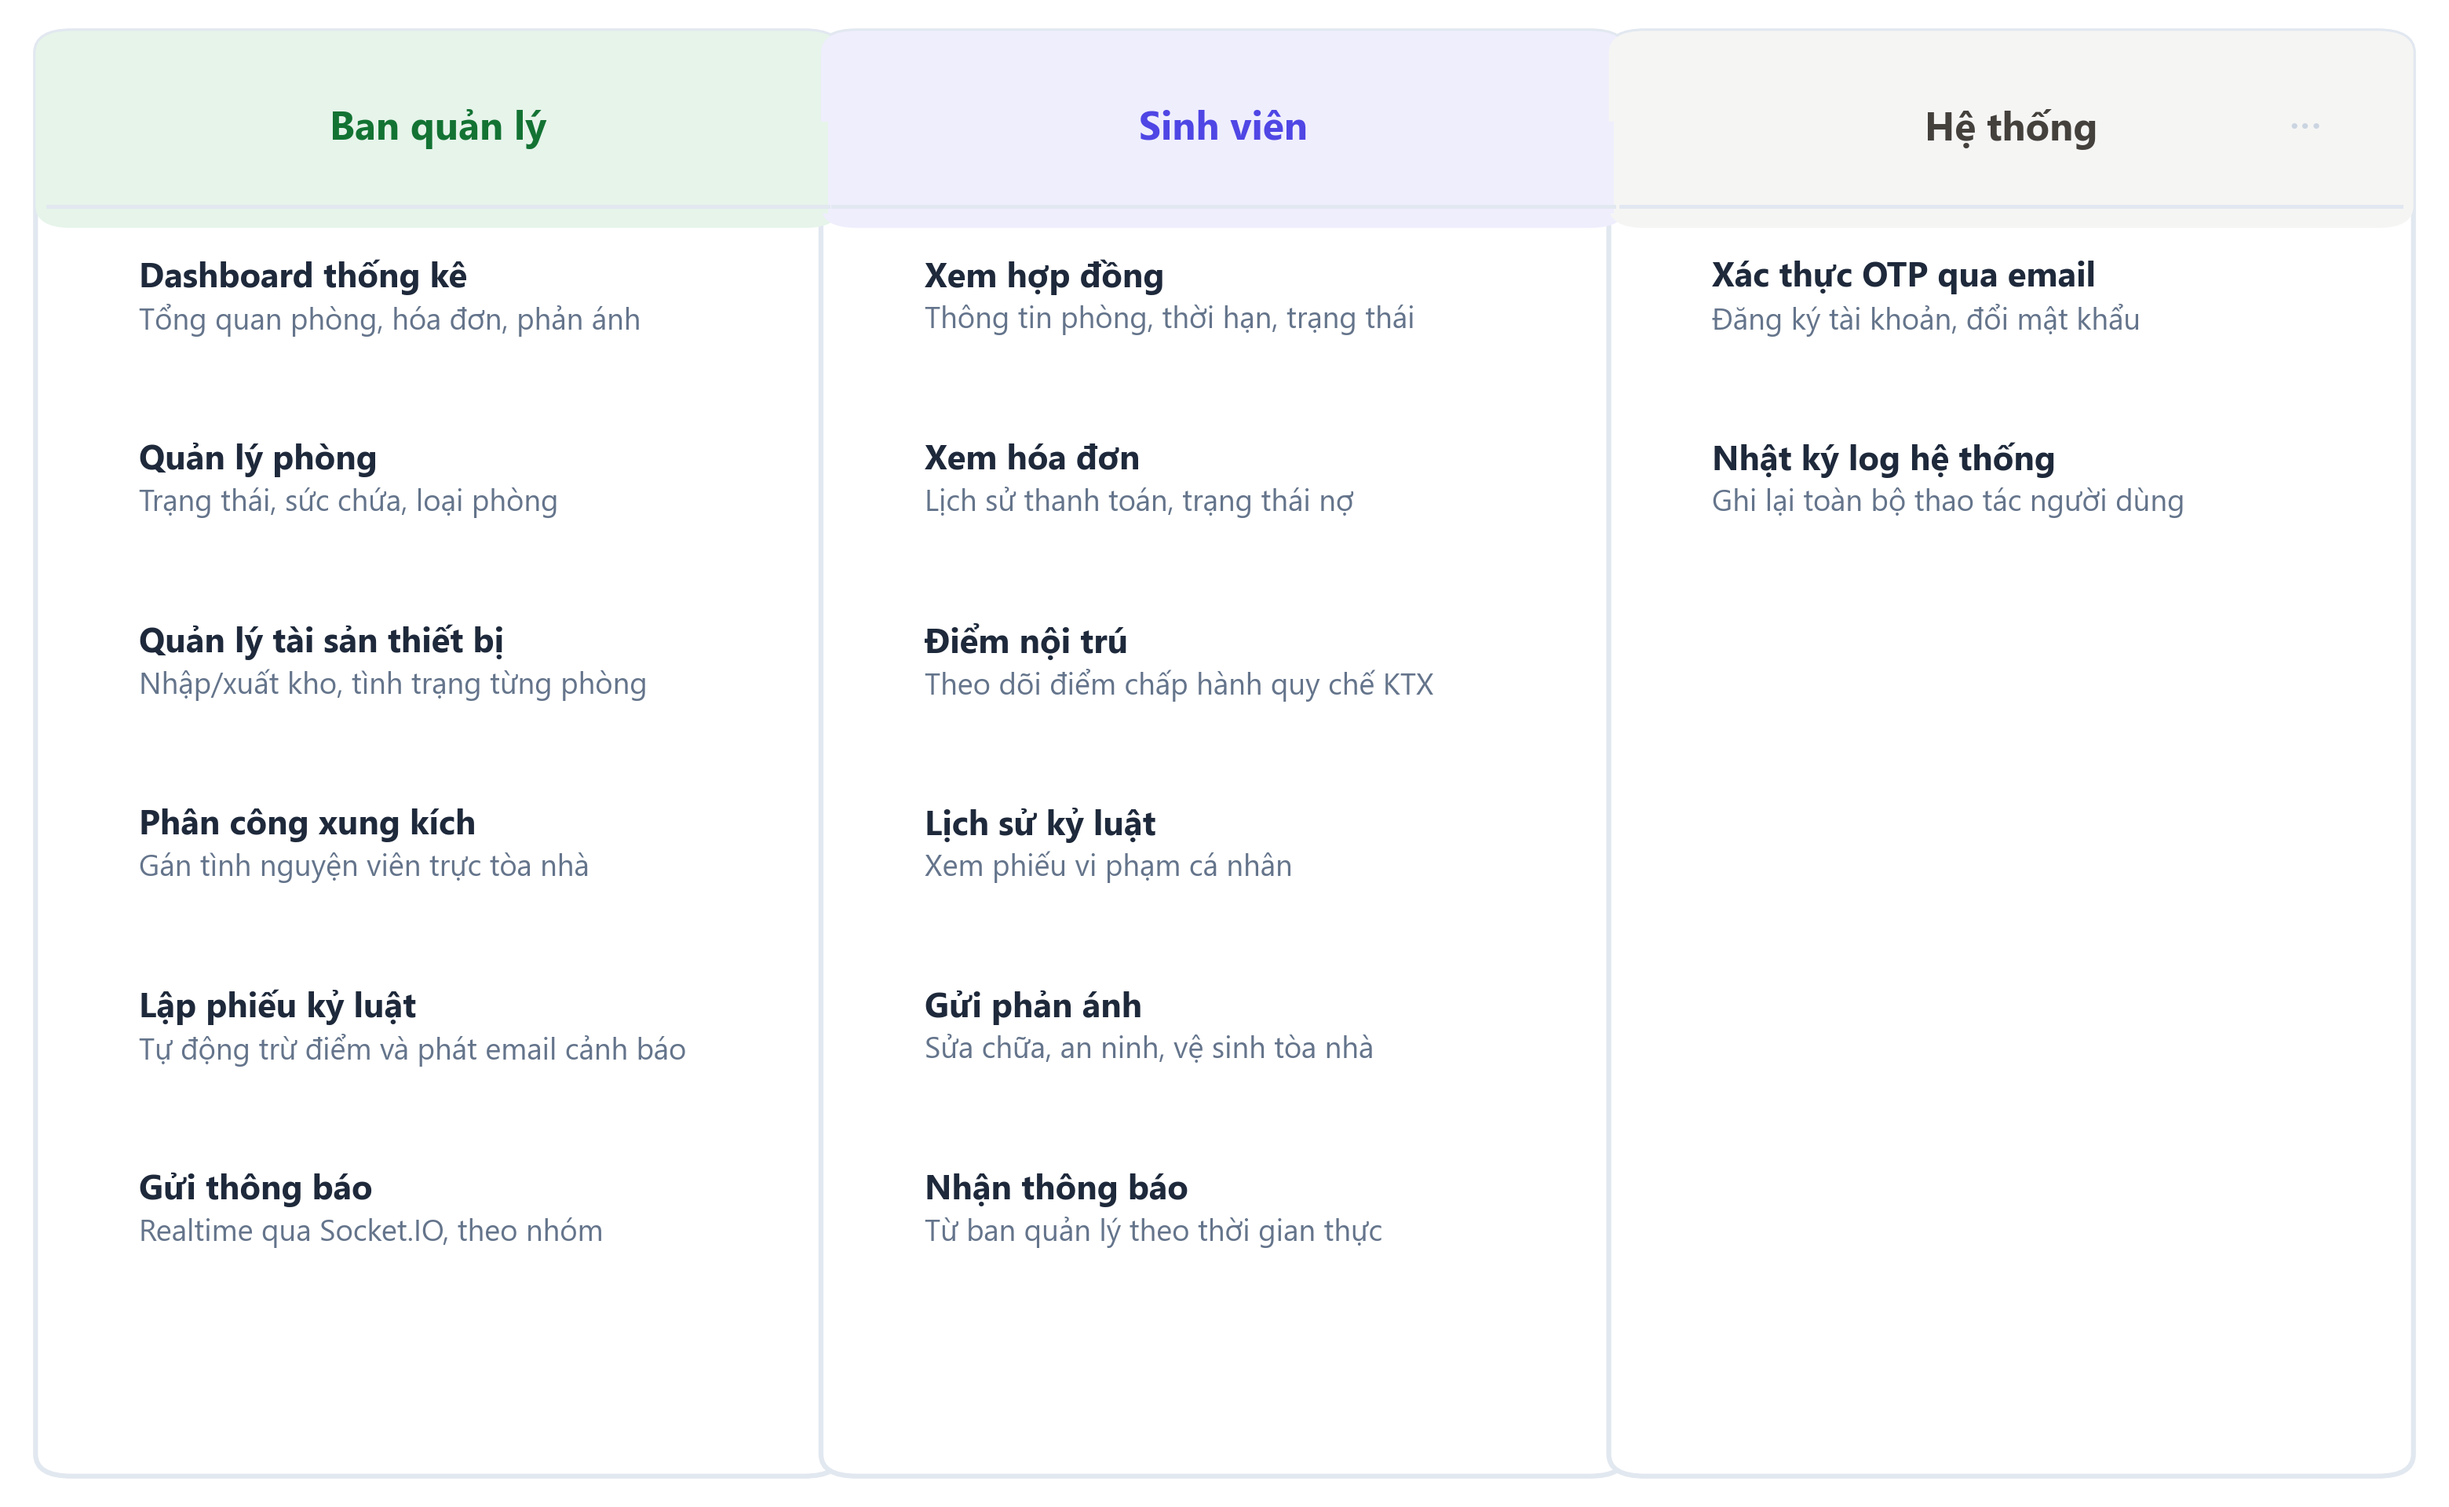
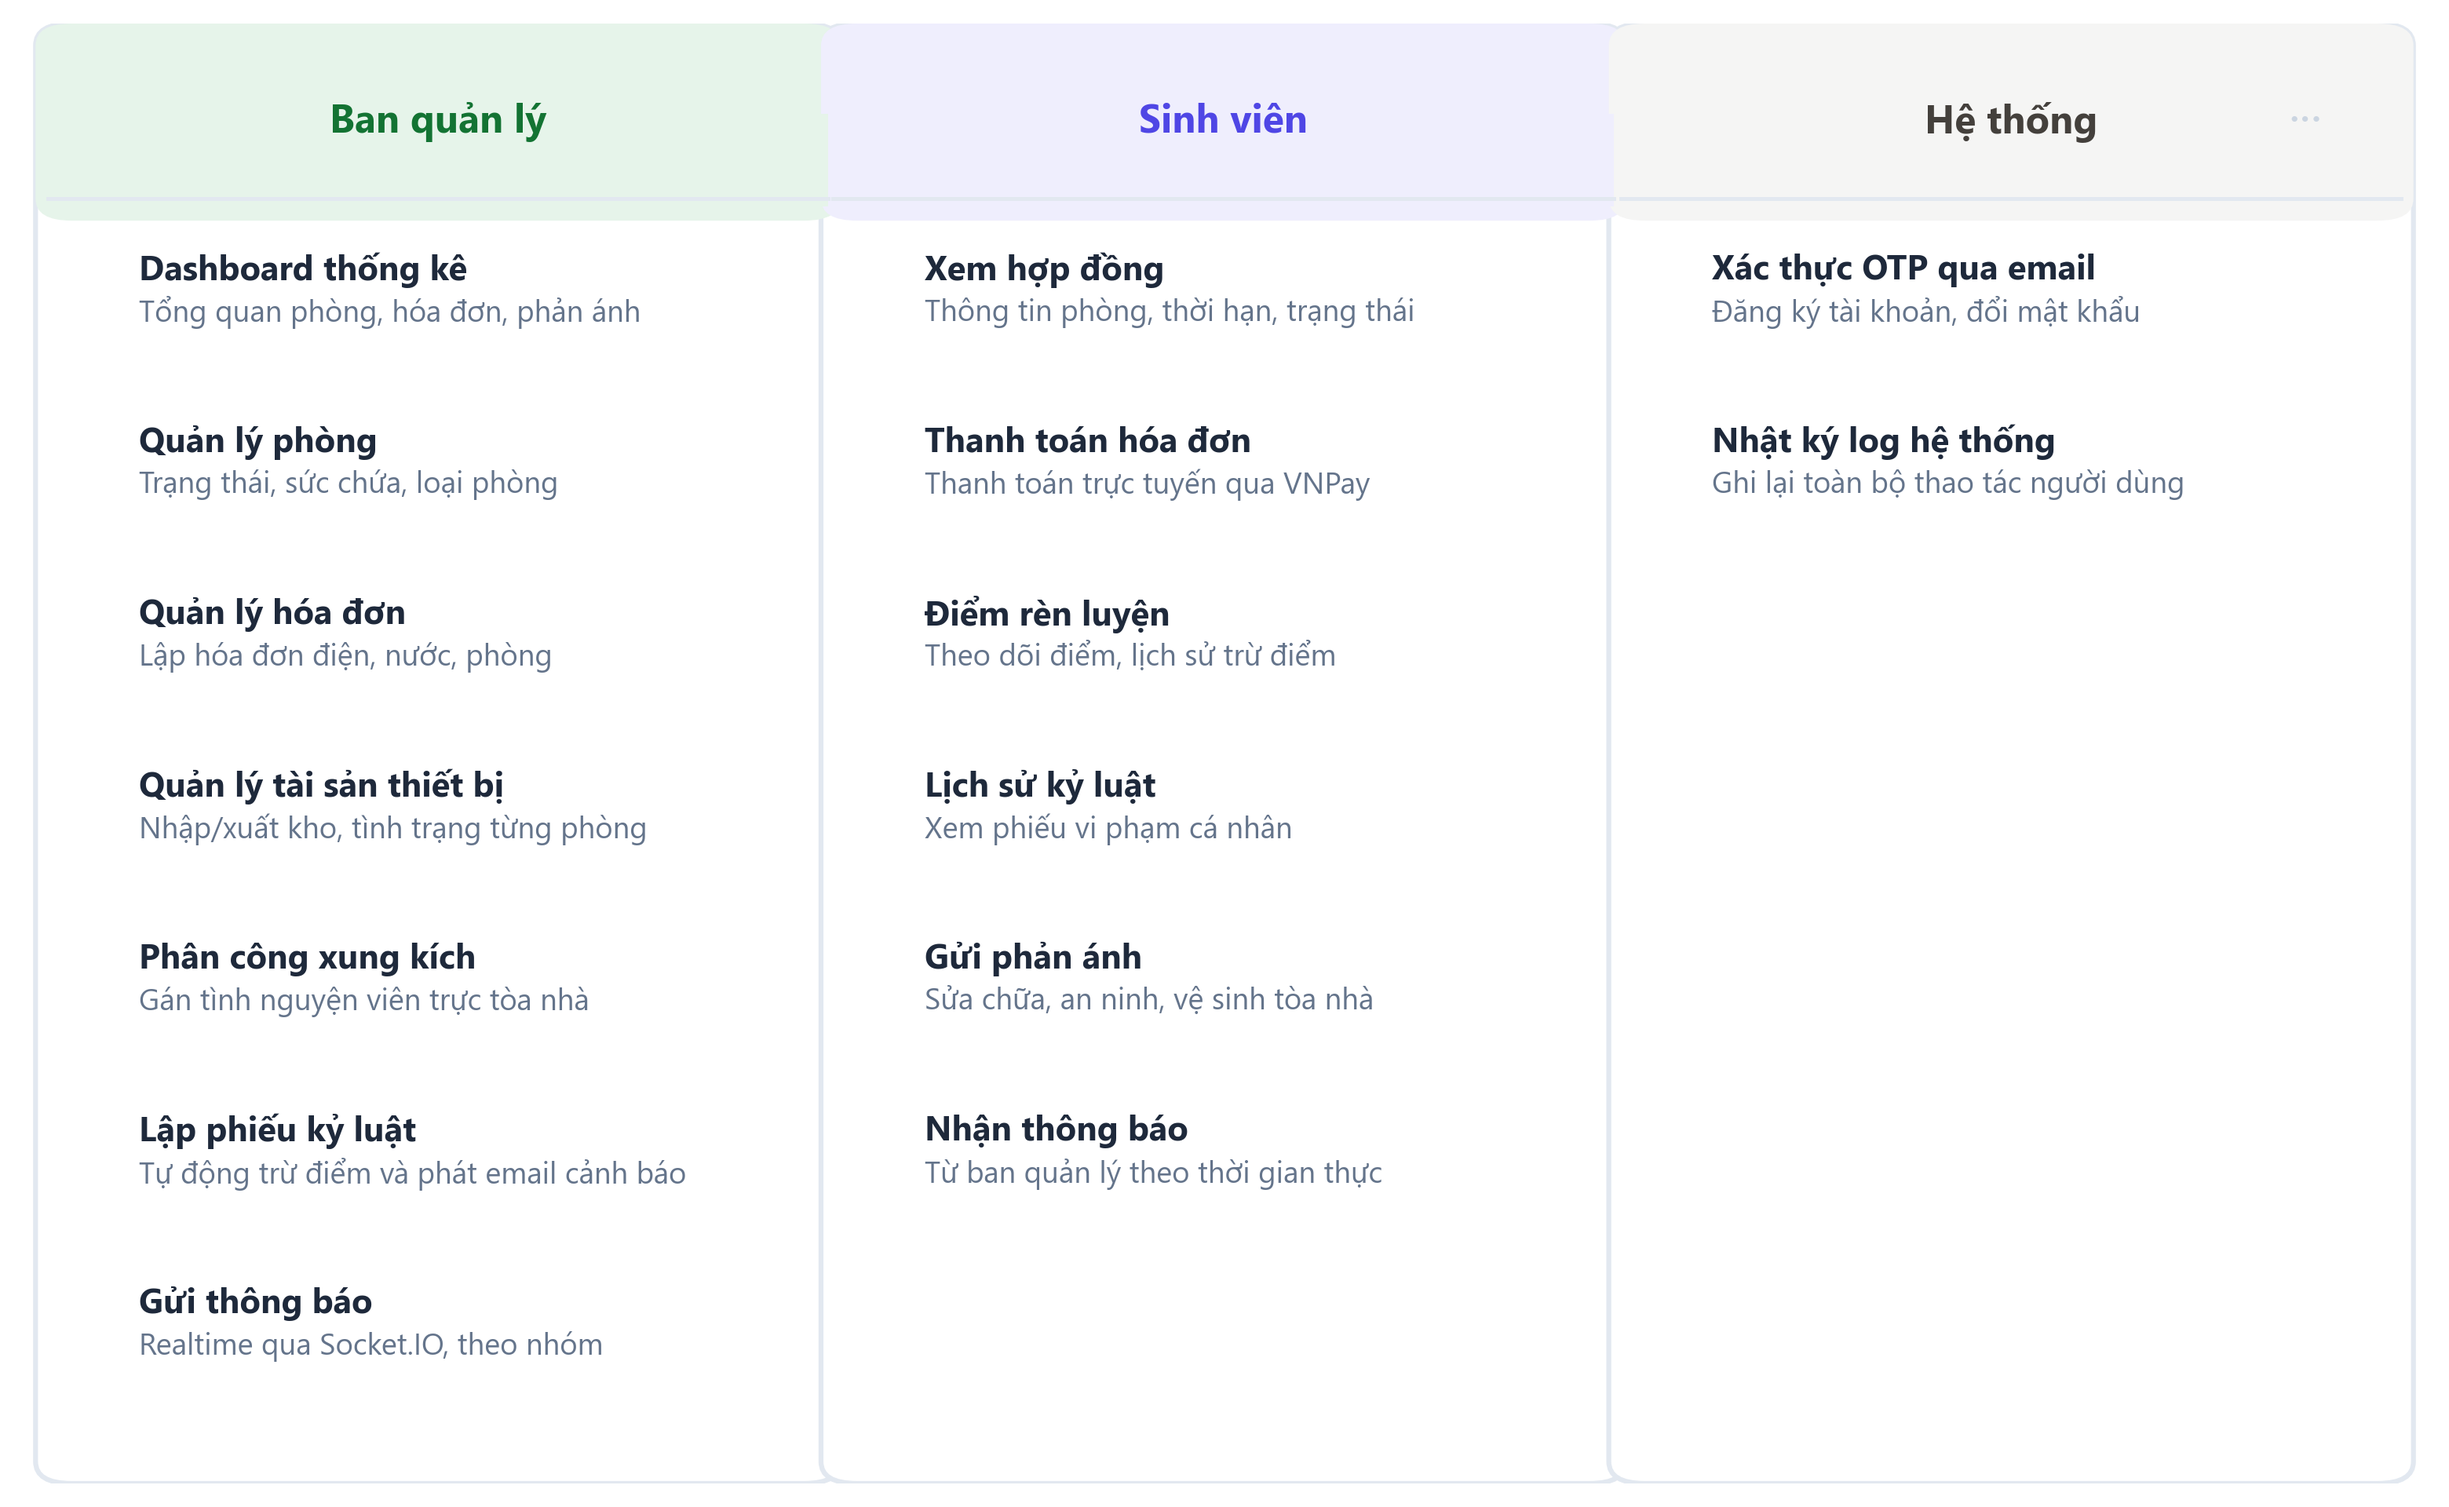
fix

diff --git a/results/generate_auxiliary_features.py b/results/generate_auxiliary_features.py
@@ -30,7 +30,7 @@ paths_to_save = [
 
 # Check and copy to brain artifact if exists
 user_home = os.path.expanduser("~")
-artifact_dir = os.path.join(user_home, ".gemini", "antigravity-ide", "brain", "855c31cf-5b3b-4f8f-aeef-3bae39b1f6b1")
+artifact_dir = os.path.join(user_home, ".gemini", "antigravity-ide", "brain", "89db7af7-68ca-4a84-9633-93af4f082fb8")
 if os.path.exists(artifact_dir):
     paths_to_save.append(os.path.join(artifact_dir, "chuc_nang_phu_tro.png"))
 
@@ -230,6 +230,11 @@ def generate_graphic():
                     'icon': 'door-closed'
                 },
                 {
+                    'title': 'Quản lý hóa đơn',
+                    'desc': 'Lập hóa đơn điện, nước, phòng',
+                    'icon': 'credit-card'
+                },
+                {
                     'title': 'Quản lý tài sản thiết bị',
                     'desc': 'Nhập/xuất kho, tình trạng từng phòng',
                     'icon': 'armchair'
@@ -263,8 +268,8 @@ def generate_graphic():
                     'icon': 'file-text'
                 },
                 {
-                    'title': 'Xem hóa đơn',
-                    'desc': 'Lịch sử thanh toán, trạng thái nợ',
+                    'title': 'Thanh toán hóa đơn',
+                    'desc': 'Thanh toán trực tuyến qua VNPay',
                     'icon': 'credit-card'
                 },
                 {
@@ -310,10 +315,10 @@ def generate_graphic():
     ]
     
     # Layout configuration
-    card_y = 0.02
-    card_h = 0.96
+    card_y = 0.015
+    card_h = 0.97
     header_h = 0.105
-    header_y = card_y + card_h - header_h  # 0.875 to 0.98
+    header_y = card_y + card_h - header_h  # 0.88 to 0.985
     
     for col in columns:
         x = col['x']
@@ -361,8 +366,8 @@ def generate_graphic():
         # 5. Draw Items inside column
         items = col['items']
         # Vertical spacing details
-        item_start_y = 0.81
-        item_spacing = 0.125
+        item_start_y = 0.815
+        item_spacing = 0.118
         
         for idx, item in enumerate(items):
             item_cy = item_start_y - idx * item_spacing
@@ -397,7 +402,7 @@ def generate_graphic():
     # Save image
     for save_path in paths_to_save:
         plt.savefig(save_path, dpi=300, facecolor='#ffffff', bbox_inches='tight')
-        print(f"Saved graphic to: {save_path}")
+        print("Saved graphic to path.")
         
     plt.close()
 
